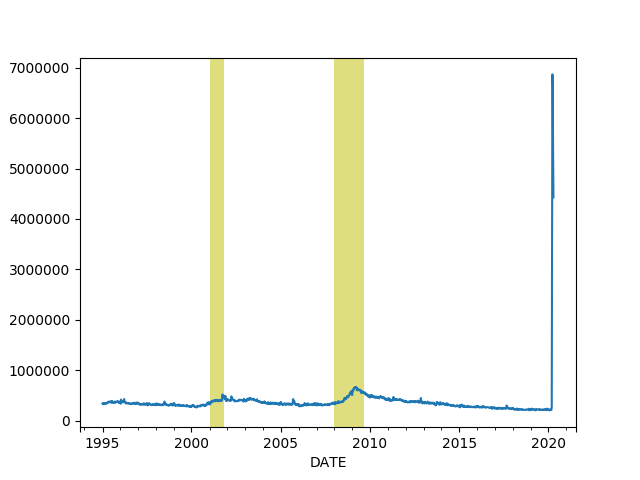
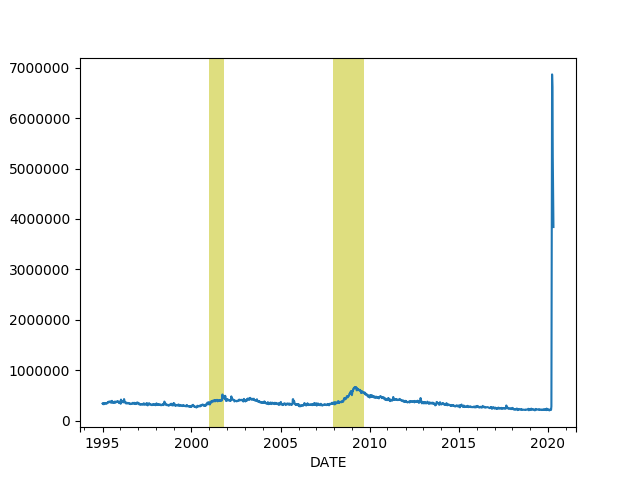
-

Changed region(s): [[0.8438, 0.2812, 0.875, 0.5312], [0.8125, 0.9062, 0.9062, 0.9375], [0.6875, 0.9062, 0.75, 0.9375]]

diff --git a/en/2019/05/stats.md b/en/2019/05/stats.md
@@ -243,10 +243,10 @@ plt.savefig('icsa.png')
 ```text
                ICSA
 DATE               
-2020-03-28  6867000
 2020-04-04  6615000
 2020-04-11  5237000
-2020-04-18  4427000
+2020-04-18  4442000
+2020-04-25  3839000
 ```
 
 ![](icsa.png)
